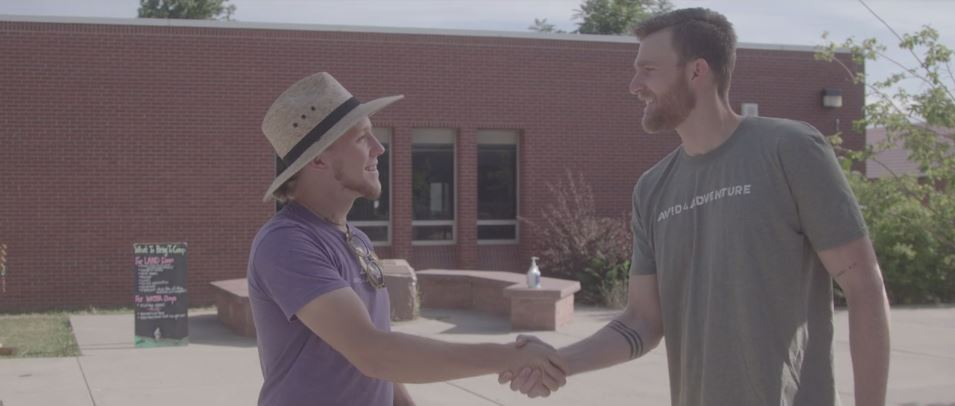
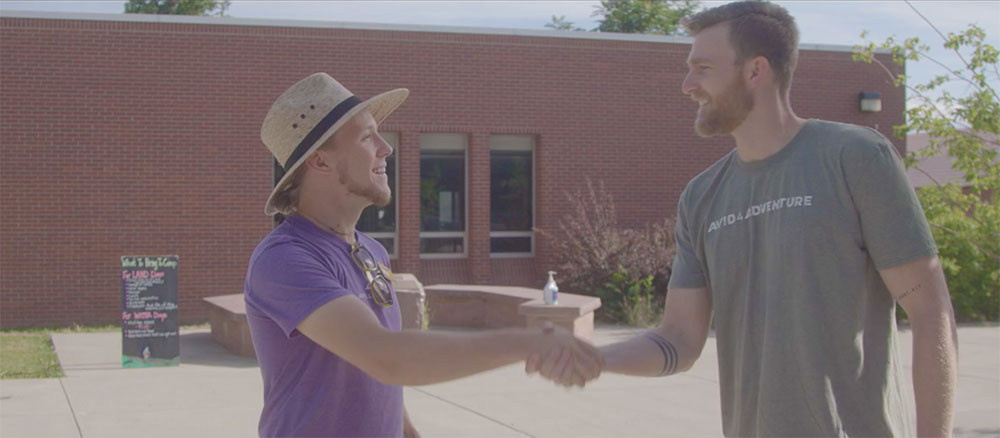
Replace handshake img with larger version

diff --git a/content/why-workbright.md b/content/why-workbright.md
@@ -55,7 +55,7 @@ description: Human Resource (HR) onboarding solution by WorkBright brings effici
     Today’s workforce is changing and you may not look like the traditional employer of past decades. Our flexible solution works for full time, part time, seasonal, temp and on demand employees! Plus, our mobile-first technology enables employees to complete forms from any smart device.
 
     <div class='mt-4'>
-      <img src="/images/handshake2.jpg" class='full-width-img' />
+      <img src="/images/handshake.jpg" class='full-width-img' />
     </div>
 
   {{< /accordion_card >}}
